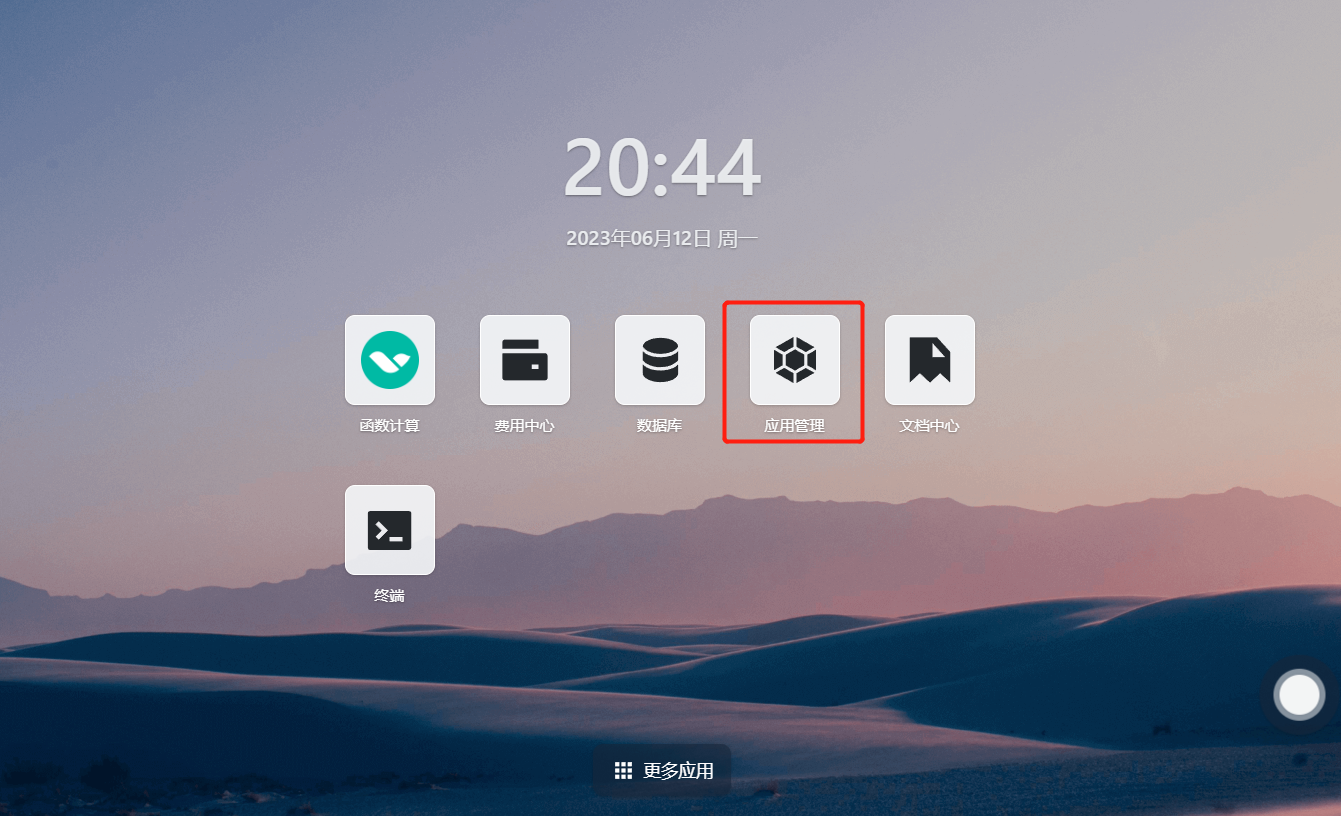
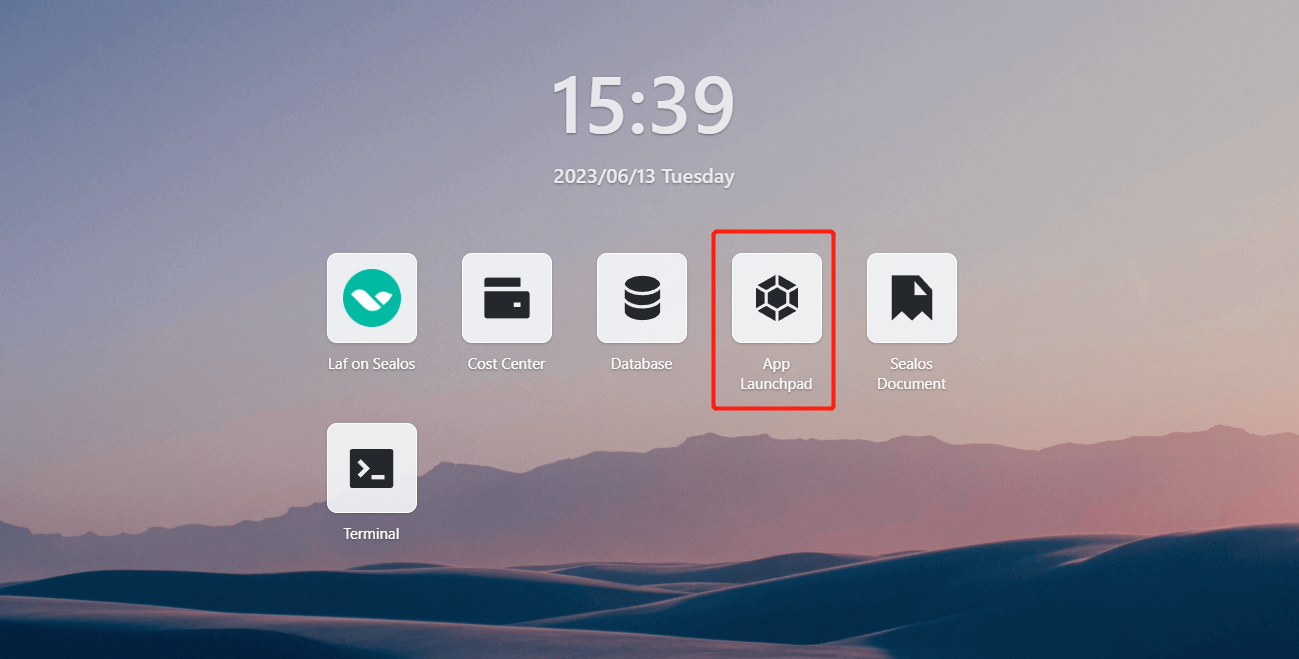
quick start of gitea on sealos

Changed region(s): [[0.0, 0.3338, 1.0, 1.0], [0.4003, 0.091, 0.5851, 0.3035], [0.8314, 0.9105, 1.0, 1.0]]

diff --git a/docs/4.0/i18n/zh-Hans/examples/gitea/install-gitea.md b/docs/4.0/i18n/zh-Hans/examples/gitea/install-gitea.md
@@ -1,0 +1,117 @@
+# Quick Installation of Gitea
+
+Gitea is a self-hosted Git service program. It is similar to GitHub, Bitbucket, or Gitlab. Gitea's primary goal is to create a self-hosted Git service that is extremely easy to install, runs very fast, and has a good installation and usage experience.
+
+## Step 1: Log in to Sealos
+
+- Go to the [sealos](https://cloud.sealos.io/) official website
+
+![](images/gitea-0.png)
+
+## Step 2: Open the 「App Launchpad」 
+
+![](images/gitea-1.png)
+
+## Step 3: Create a new application
+
+- In 「App Launchpad」, click "Create New Application" to create a new application.
+
+![](images/gitea-2.png)
+
+## Step 4: Application deployment
+
+- Basic configuration:
+
+  - Application name (custom): gitea
+  - Image name (default latest version): gitea/gitea:latest-rootless
+  - CPU (recommended): 1 Core
+  - Memory (recommended): 1 G
+
+- Deployment mode:
+
+  - Number of instances (custom): 1
+
+- 
+
+  ![](images/gitea-3.png)
+  
+- - Network configuration:
+    - Container  port: 3000
+    - Accessible to the Public: enabled
+
+  ![](images/gitea-4.png)
+
+- Advanced configuration:
+  
+  - Custom local storage, persist Gitea data (recommended 1 G).
+  
+  - ![](images/gitea-5.png)
+
+## Step 5: Deploy the application
+
+- Click「Deploy Application」 to start deploying the application.![](images/gitea-6.png)
+
+## Step 6: Configure the database
+
+- #### Configure MySQL database for Gitea via Sealos
+
+  - Click Database
+
+![](images/gitea-9.png)
+
+- Create a new database
+
+![](images/gitea-10.png)
+
+- 部署集群
+
+- - Basic configuration:
+  - Cluster type: mysql
+    - Database version: ac-mysql-8.0.30
+    - CPU (recommended): 1 Core
+    - Memory (recommended): 1 G
+  
+
+
+![](images/gitea-11.png)
+
+- After deployment is successful, enter the details page to view the MySQL connection information
+
+![](images/gitea-12.png)
+
+- Click "One-click Connection" to enter the MySQL terminal connection
+
+![](images/gitea-13.png)
+
+- Execute
+
+```sql
+CREATE DATABASE giteadb CHARACTER SET 'utf8mb4' COLLATE 'utf8mb4_unicode_ci';
+```
+
+Create the database needed for Gitea
+
+![](images/gitea-14.png)
+
+## Step 7: Access the application
+
+- Click 「App Launchpad」 to view.When the application's STATUS changes from Pending to Running, it means the application has started successfully.
+
+- When the STATUS is Running, you can directly access the external address.
+
+  ![](images/gitea-7.png)
+
+  
+
+- After accessing the external address, enter the configuration page and configure according to the details of the MySQL just created
+
+  
+
+![](images/gitea-15.png)
+
+- After configuring, click Install, wait for a while and you can enter the login page, deployment successful!
+
+  ![](images/gitea-16.png)
+
+- ![](images/gitea-17.png)
+

diff --git a/docs/4.0/docs/examples/gitea/install-gitea.md b/docs/4.0/docs/examples/gitea/install-gitea.md
@@ -2,17 +2,23 @@
 
 Gitea 是一个自己托管的Git服务程序。他和GitHub, Bitbucket or Gitlab等比较类似。Gitea的首要目标是创建一个极易安装，运行非常快速，安装和使用体验良好的自建 Git 服务。
 
-## 步骤 1：打开 「应用管理」 应用
+## 步骤 1：登陆Sealos
+
+- 进入[sealos](https://cloud.sealos.io/)官网
+
+![](images/gitea-0.png)
+
+## 步骤 2：打开 「应用管理」 应用
 
 ![](images/gitea-1.png)
 
-## 步骤 2：新建应用
+## 步骤 3：新建应用
 
 - 在 「应用管理」 中，点击「新建应用」来创建一个新的应用。
 
 ![](images/gitea-2.png)
 
-## 步骤 3：应用部署
+## 步骤 4：应用部署
 
 - 基础配置：
 
@@ -35,24 +41,79 @@ Gitea 是一个自己托管的Git服务程序。他和GitHub, Bitbucket or Gitla
   ![](images/gitea-4.png)
 
 - 高级配置：
-  - 自定义本地存储，持久化 Appsmith 的数据（推荐 1 G）。
+  - 自定义本地存储，持久化 Gitea的数据（推荐 1 G）。
   - ![](images/gitea-5.png)
 
-## 步骤 4：部署应用
+## 步骤 5：部署应用
 
 - 点击「部署应用」开始部署应用。
 
 ![](images/gitea-6.png)
 
-## 步骤 5：访问应用
+## 步骤6：配置数据库
 
-- 点击「详情」查看，当应用的 STATUS 由 Pending 变为 Running，则表明该应用已成功启动。
+- #### 通过sealos为gitea配置MySQL数据库
+
+  - 进入Database
+
+![](images/gitea-9.png)
+
+- 新建数据库
+
+![](images/gitea-10.png)
+
+- 部署集群
+
+- 基础配置：
+
+  - 集群类型：mysql
+  - 数据库版本：ac-mysql-8.0.30
+  - CPU（推荐）：1 Core
+  - 内存（推荐）：1 G
+
+  
+
+![](images/gitea-11.png)
+
+- 部署成功后进入详情页面查看mysql连接信息
+
+![](images/gitea-12.png)
+
+- 点击一键连接进入mysql终端连接
+
+  
+
+![](images/gitea-13.png)
+
+- 执行
+
+```sql
+CREATE DATABASE giteadb CHARACTER SET 'utf8mb4' COLLATE 'utf8mb4_unicode_ci';
+```
+
+创建gitea所需要的数据库
+
+![](images/gitea-14.png)
+
+## 步骤 7：访问应用
+
+- 点击「App Launchpad」查看，当应用的 STATUS 由 Pending 变为 Running，则表明该应用已成功启动。
 
 - 当 STATUS 为 Running，即可直接访问外网地址。
 
   ![](images/gitea-7.png)
 
-- 访问成功！
-- 
+  
 
-![](images/gitea-8.png)
+- 访问外网地址后进入到配置页面，根据刚刚创建的mysql的详情页面进行配置
+
+  
+
+![](images/gitea-15.png)
+
+- 配置好后点击安装，等待一会便可进入到登陆页面，部署成功！
+
+  ![](images/gitea-16.png)
+
+- ![](images/gitea-17.png)
+
